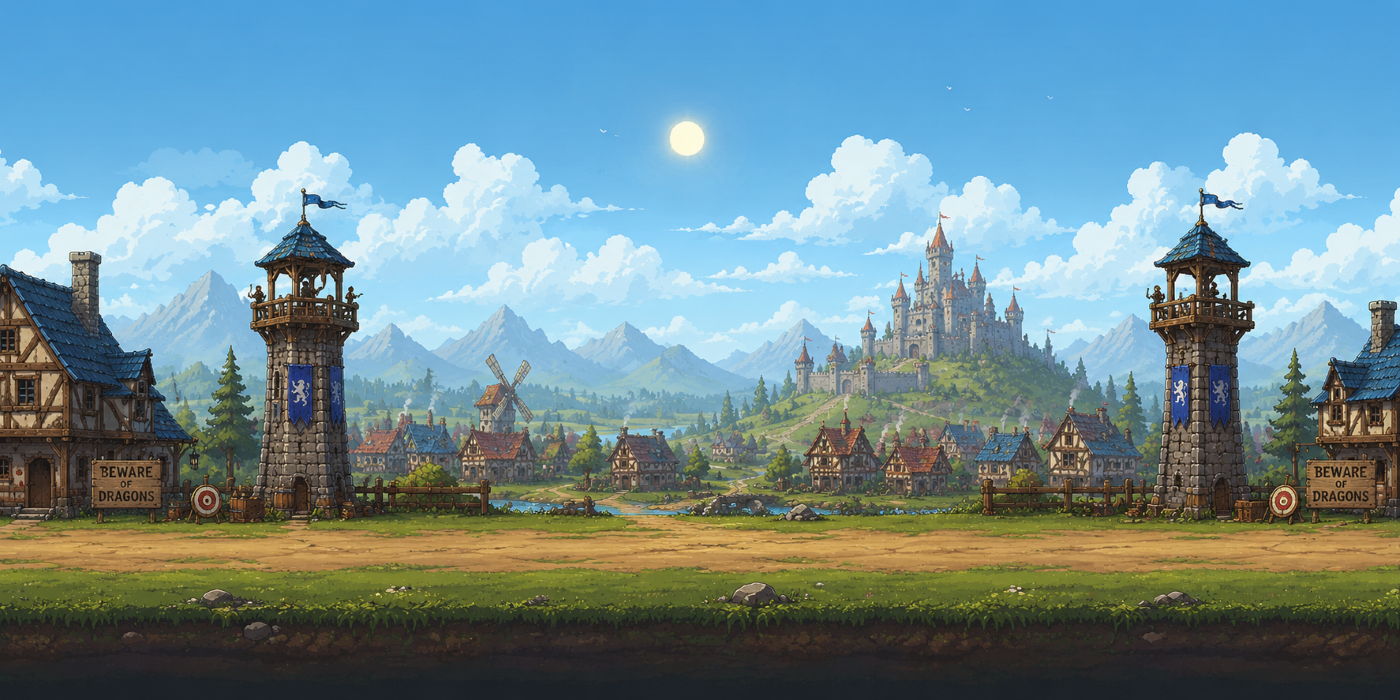
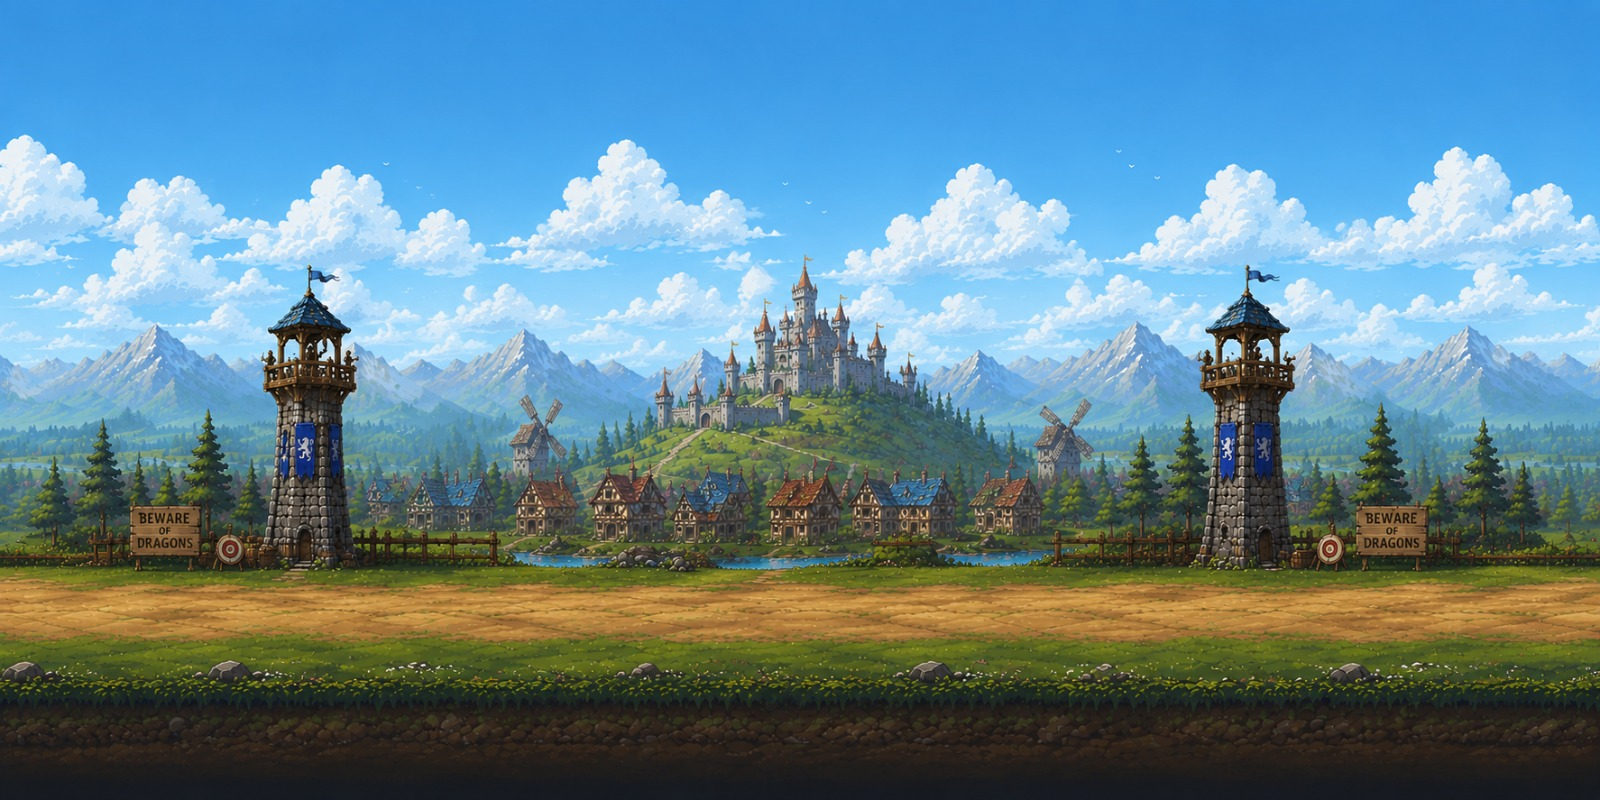
Atualizei a pasta do jogo para a nova pasta com as alterções feitas como pause do jogo

diff --git a/main.py b/main.py
@@ -38,6 +38,8 @@ missileSound = pygame.mixer.Sound("base/missile.wav")
 explosaoSound = pygame.mixer.Sound("base/explosao.wav")
 pygame.mixer.music.load("base/ironsound.mp3")
 fonteMenu = pygame.font.SysFont("comicsans",18)
+fontePause = pygame.font.SysFont("Arial", 60, True)
+fonteAjuda = pygame.font.SysFont("Arial", 18)
 nuvem = pygame.image.load("base/nuvem.png")
 nuvem = pygame.transform.scale(nuvem, (120, 80))
 
@@ -80,7 +82,8 @@ def jogar():
             elif evento.type == pygame.KEYUP and evento.key == pygame.K_DOWN:
                 movimentoYPersona = 0
         
-        posicaoYPersona = posicaoYPersona + movimentoYPersona            
+        if not pausado:
+            posicaoYPersona = posicaoYPersona + movimentoYPersona            
         if posicaoXPersona < 0 :
             posicaoXPersona = 0
         elif posicaoXPersona > 685:
@@ -91,7 +94,8 @@ def jogar():
             posicaoYPersona = 450
             
             
-        posicaoXMissel = posicaoXMissel - velocidadeMissel
+        if not pausado:
+            posicaoXMissel = posicaoXMissel - velocidadeMissel
         if posicaoXMissel < -125:
             pygame.mixer.Sound.play(missileSound)
             posicaoXMissel = 800
@@ -108,7 +112,8 @@ def jogar():
             velocidadeFundo = velocidadeFundo + 0.3
             posicaoYMissel = random.randint(0,1000)
 
-        posicaoXNuvem -= velocidadeNuvem
+        if not pausado:
+            posicaoXNuvem -= velocidadeNuvem
 
         if posicaoXNuvem < -120:
             posicaoXNuvem = 1000
@@ -116,8 +121,9 @@ def jogar():
         tela.fill(branco)
         tela.blit(fundo, (fundoMov1,0) )
         tela.blit(fundo, (fundoMov2,0) )
-        fundoMov1 -= velocidadeFundo
-        fundoMov2 -= velocidadeFundo
+        if not pausado:
+            fundoMov1 -= velocidadeFundo
+            fundoMov2 -= velocidadeFundo
         if fundoMov1 < -1000:
             fundoMov1 = 1000
         elif fundoMov2 < -1000:
@@ -136,6 +142,14 @@ def jogar():
         nivel = obter_nivel(pontos)
         textoNivel = fonteMenu.render("Nivel: " + nivel, True, branco)
         tela.blit(textoNivel, (700, 40))
+
+        textoAjuda = fonteAjuda.render("Press Space to Pause Game", True, branco)
+        tela.blit(textoAjuda, (10, 10))
+
+        if pausado:
+            textoPause = fontePause.render("PAUSE", True, branco)
+            rectPause = textoPause.get_rect(center=(500, 350))
+            tela.blit(textoPause, rectPause)
         
             
         pixelsPersonaX = list(range(posicaoXPersona, posicaoXPersona+116))

diff --git a/recursos/funcoes.py b/recursos/funcoes.py
@@ -11,14 +11,24 @@ def aguarde(segundos):
 def inicializarBancoDeDados():
     # r - read, w - write, a - append
     try:
-        banco = open("base.atitus","r")
+        banco = open("log.dat","r")
     except:
         print("Banco de Dados Inexistente. Criando...")
-        banco = open("base.atitus","w")
+        banco = open("log.dat","w")
+        banco.close()
+        
+def salvarLog(nome, pontuacao):
+    agora = datetime.now()
+
+    data = agora.strftime("%d/%m/%Y")
+    hora = agora.strftime("%H:%M:%S")
+
+    with open("log.dat", "a") as banco:
+        banco.write(f"{nome};{pontuacao};{data};{hora}\n")
     
 def escreverDados(nome, pontos):
     # INI - inserindo no arquivo
-    banco = open("base.atitus","r")
+    banco = open("log.dat","r")
     dados = banco.read()
     banco.close()
     if dados != "":
@@ -29,14 +39,14 @@ def escreverDados(nome, pontos):
     data_br = datetime.now().strftime("%d/%m/%Y")
     dadosDict[nome] = (pontos, data_br)
     
-    banco = open("base.atitus","w")
+    banco = open("log.dat","w")
     banco.write(json.dumps(dadosDict))
     banco.close()
     
     # END - inserindo no arquivo
     
 def maior_pontuador():
-    banco = open("base.atitus","r")
+    banco = open("log.dat","r")
     dados = banco.read()
     banco.close()
     if dados != "":
